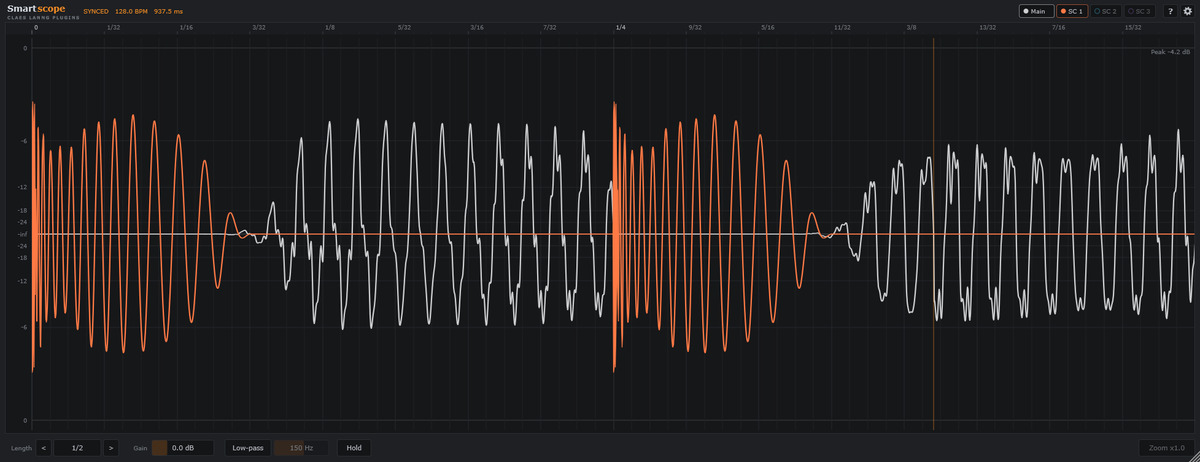
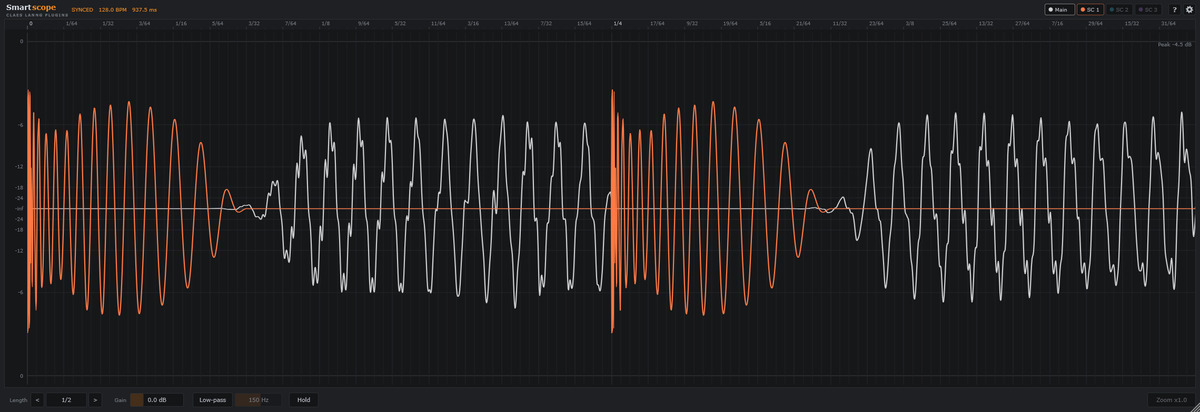
Smartscope: real captures for the hero, the four themes and settings
The hero now uses the Graphite capture without the play cursor. The
themes section shows one capture per theme in a two-column grid, and the
settings shot is a crop around the dialog at its natural size.

Claude-Session: https://claude.ai/code/session_01PC7LNGCBCwcv1zY2mMPS58

diff --git a/smartscope/index.html b/smartscope/index.html
@@ -71,7 +71,7 @@
       </div>
       <p class="fineprint">Version 1.1. Free. VST3 for Windows 10 and 11 (64-bit), made for FL Studio.</p>
       <figure class="shot">
-        <img src="../assets/img/smartscope/main.webp" width="1955" height="752" alt="Smartscope in FL Studio showing half a bar: a kick on sidechain 1 in orange, and the bass on the same track in grey coming in as the kick dies away">
+        <img src="../assets/img/smartscope/main.webp" width="2279" height="783" alt="Smartscope in FL Studio showing half a bar: a kick on sidechain 1 in orange, and the bass on the same track in grey coming in as the kick dies away">
         <figcaption>A kick on sidechain 1 (orange) over the bass on the same track (grey), half a bar long.</figcaption>
       </figure>
     </div>
@@ -123,16 +123,28 @@
     <div class="wrap">
       <h2 id="look-title">Your colours</h2>
       <p class="intro">Four themes, and a colour and opacity for every layer. Your choices are saved with the project.</p>
-      <div class="gallery wide">
+      <div class="gallery">
         <figure class="shot">
-          <img src="../assets/img/smartscope/themes.jpg" width="1200" height="558" loading="lazy" alt="Smartscope in the Graphite, Midnight, Phosphor and Daylight themes">
-          <figcaption>Graphite, Midnight, Phosphor and Daylight.</figcaption>
+          <img src="../assets/img/smartscope/theme-graphite.webp" width="1140" height="392" loading="lazy" alt="Smartscope in the Graphite theme">
+          <figcaption>Graphite</figcaption>
         </figure>
         <figure class="shot">
-          <img src="../assets/img/smartscope/settings.jpg" width="900" height="420" loading="lazy" alt="Smartscope settings: theme, layer colours and opacity, display options">
-          <figcaption>Settings: theme, layer colours, and display options.</figcaption>
+          <img src="../assets/img/smartscope/theme-midnight.webp" width="1140" height="392" loading="lazy" alt="Smartscope in the Midnight theme">
+          <figcaption>Midnight</figcaption>
+        </figure>
+        <figure class="shot">
+          <img src="../assets/img/smartscope/theme-phosphor.webp" width="1140" height="392" loading="lazy" alt="Smartscope in the Phosphor theme">
+          <figcaption>Phosphor</figcaption>
+        </figure>
+        <figure class="shot">
+          <img src="../assets/img/smartscope/theme-daylight.webp" width="1140" height="391" loading="lazy" alt="Smartscope in the Daylight theme">
+          <figcaption>Daylight</figcaption>
         </figure>
       </div>
+      <figure class="shot shot-settings">
+        <img src="../assets/img/smartscope/settings.webp" width="900" height="370" loading="lazy" alt="Smartscope settings: a colour, opacity and show toggle for each layer, the theme, and display options">
+        <figcaption>Settings: a colour and opacity for each layer, the theme, and display options.</figcaption>
+      </figure>
     </div>
   </section>
 

diff --git a/assets/site.css b/assets/site.css
@@ -112,6 +112,7 @@ figure { margin: 0; }
 /* ---------- Galleries ---------- */
 .gallery { display: grid; grid-template-columns: repeat(2, minmax(0, 1fr)); gap: clamp(20px, 3vw, 36px); }
 .gallery.wide { grid-template-columns: 1fr; }
+.shot-settings { margin-top: clamp(28px, 4vw, 48px); }
 
 /* ---------- Steps (real sequences only) ---------- */
 .panel { background: var(--panel); color: var(--panel-text); border-radius: 3px; padding: clamp(26px, 4vw, 44px) clamp(22px, 5vw, 52px); }

diff --git a/index.html b/index.html
@@ -129,7 +129,7 @@
             <p>See whether your kick and bass are in phase.</p>
             <span class="go">See Smartscope</span>
           </div>
-          <img src="assets/img/smartscope/main.webp" width="1955" height="752" loading="lazy" alt="">
+          <img src="assets/img/smartscope/main.webp" width="2279" height="783" loading="lazy" alt="">
         </a>
         <a class="pick pick-pitchscope" href="pitchscope/">
           <div>

diff --git a/CLAUDE.md b/CLAUDE.md
@@ -64,7 +64,10 @@ PNG and attached in the chat (Gyazo links can't be downloaded from the workspace
 FL Studio's wrapper bar and border (about 74 px at the top and 5–6 px at the sides and
 bottom). Save as lossless WebP at full size; the `width`/`height` attributes are the
 pixel size. Social previews (`og:image`, JSON-LD) use a 1200 px JPEG, since some sites
-don't read WebP.
+don't read WebP. The settings dialog doesn't grow with the plugin window, so
+`settings.webp` is a 900 px crop around the dialog, shown at its natural size; a capture at
+Windows 200% scaling would make it sharper on high-density screens. Theme shots are scaled
+to 1140 px wide for the two-column grid.
 
 ## Checking changes
 
@@ -82,9 +85,12 @@ then tick "Enforce HTTPS" in Settings → Pages.
 
 ## Open ideas
 
-- Real FL Studio screenshots for the rest of Smartscope. `main.webp` (hero and home card)
-  is a real capture; `zoom.jpg`, `themes.jpg` and `settings.jpg` are still synthetic renders.
-  A short screen recording could come later.
+- A real zoomed-in Smartscope capture to replace `zoom.jpg`, the last synthetic render.
+  When it arrives, check the "about 18 ms" sentence above it against what the capture
+  shows. All other Smartscope images (`main.webp`, `theme-*.webp`, `settings.webp`) are
+  real captures. A short screen recording could come later.
+- The owner is adding features to Smartscope (Nov 2026). When a new version ships, update
+  the version facts and ask whether the screenshots need redoing.
 - Privacy-friendly visitor stats (e.g. GoatCounter). The owner would need to sign up.
 - A separate support address on the domain (e.g. plugins@claeslanng.shop forwarding to
   Gmail), set up by the owner in GoDaddy.
